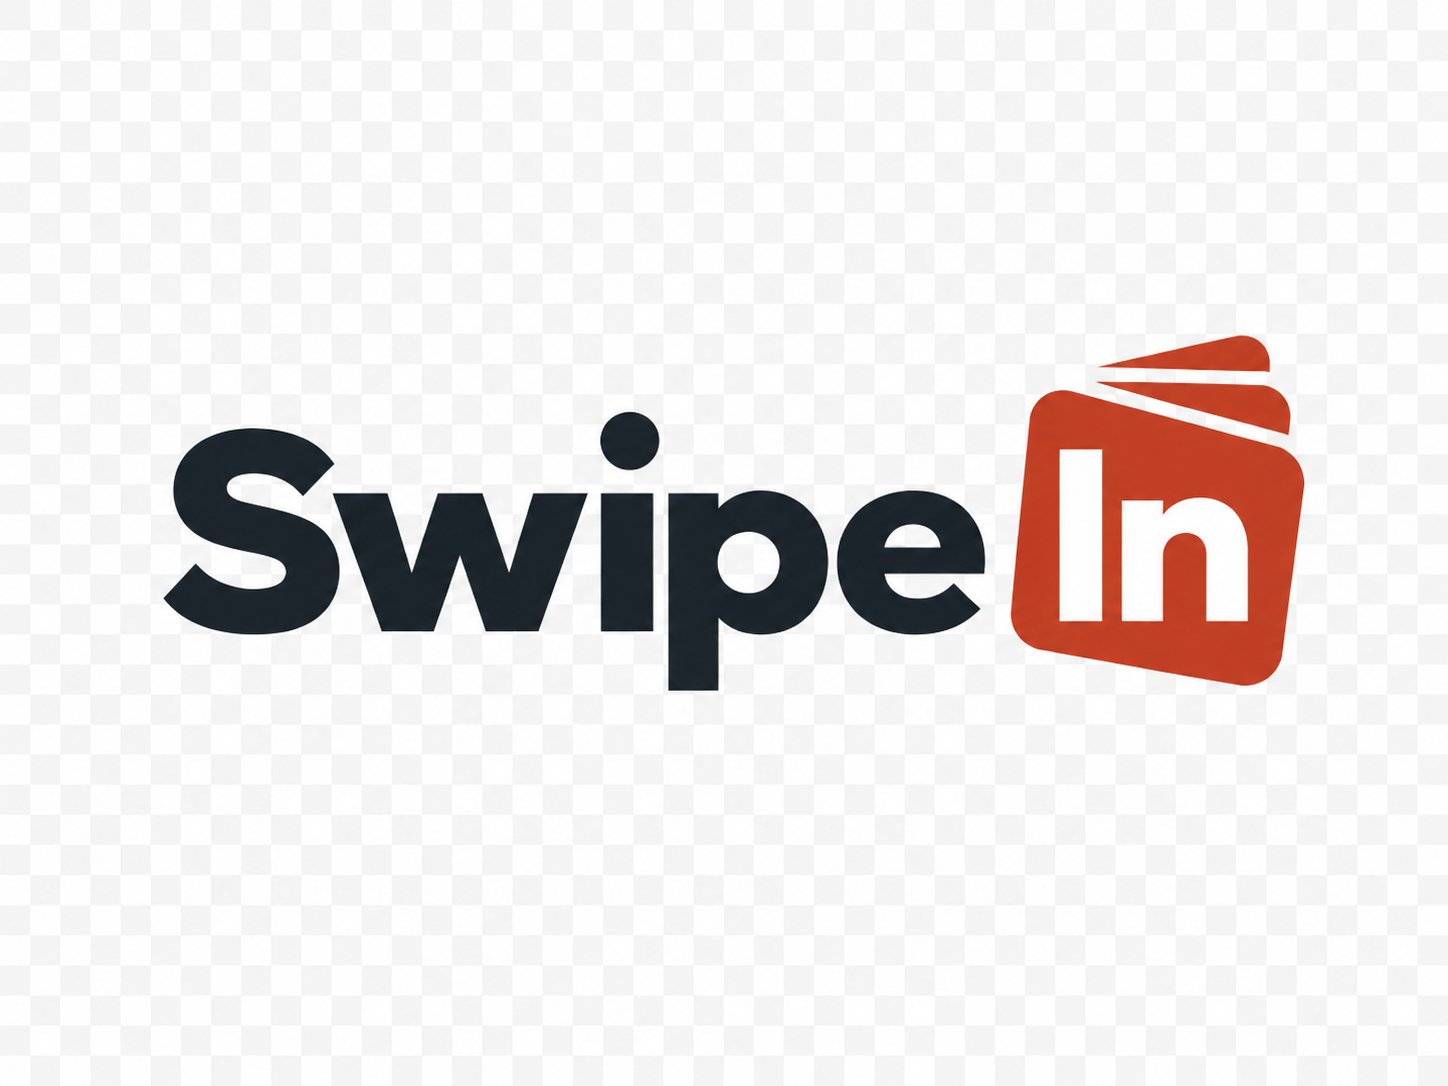
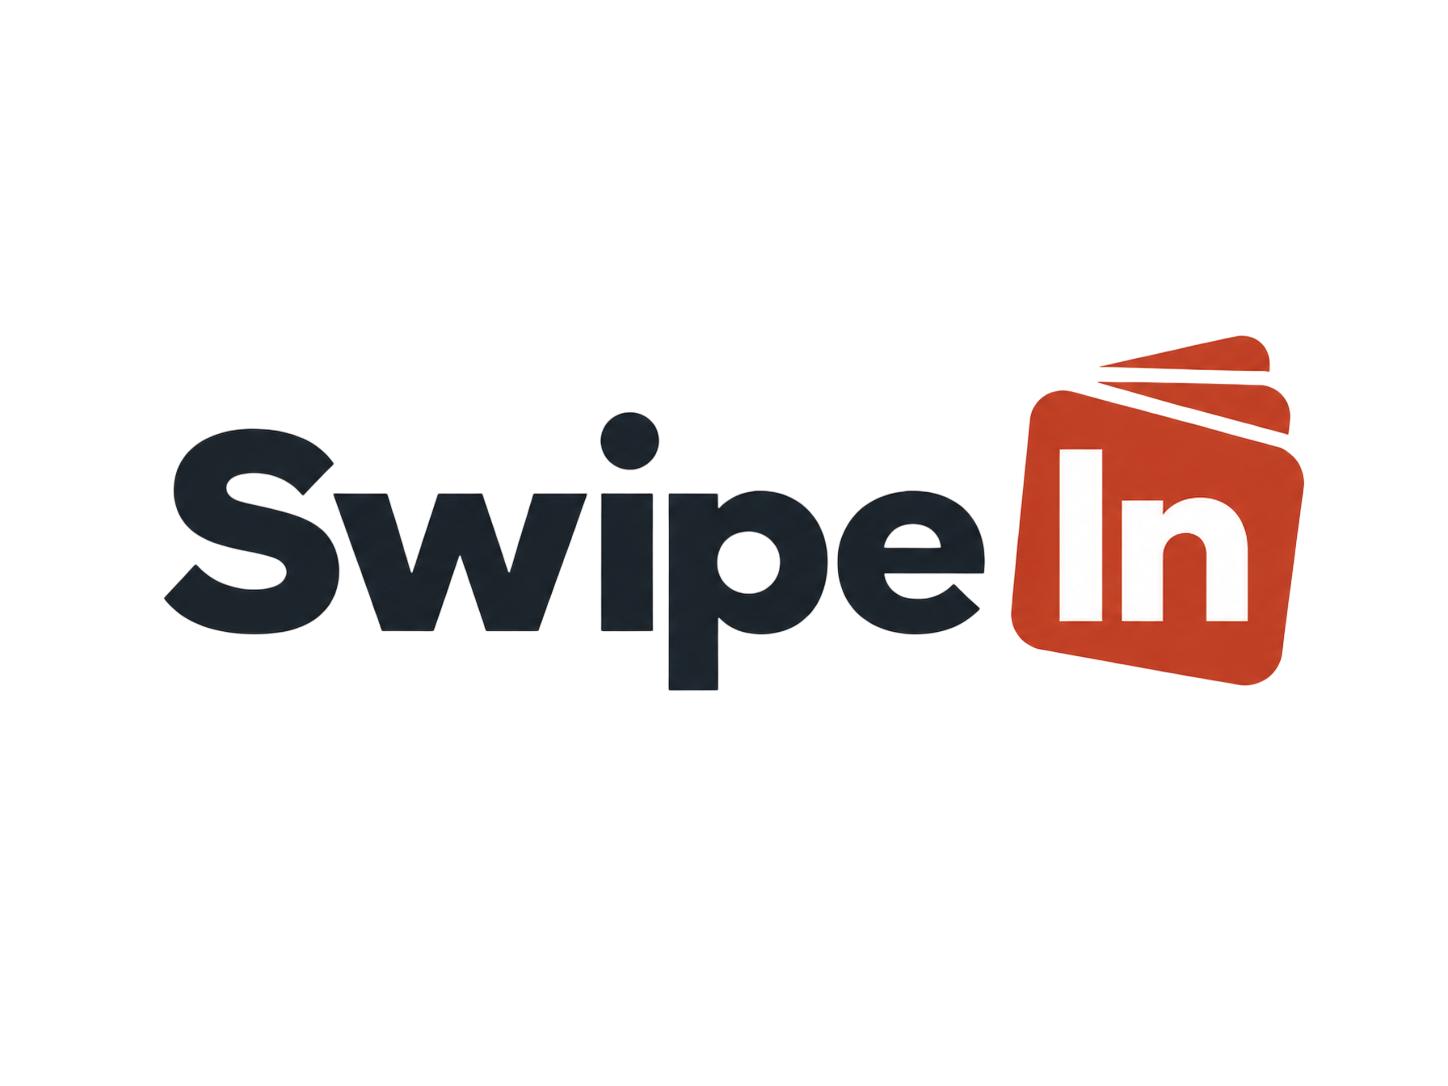
feat: refresh SwipeIn brand assets with transparent versions
Update swipeInIcon.png and swipeIntypography.png to transparent variants;
remove duplicate text wordmark from marketing header.

diff --git a/app/(marketing)/layout.tsx b/app/(marketing)/layout.tsx
@@ -36,9 +36,6 @@ async function SiteHeader() {
                 priority
                 className="h-8 w-8 rounded-lg shrink-0"
               />
-              <span className="swipein-wordmark ml-2 text-lg">
-                Swipe<span className="swipein-in">In</span>
-              </span>
             </Link>
             <nav className="ml-5 hidden items-center gap-4 sm:flex">
               <Link
